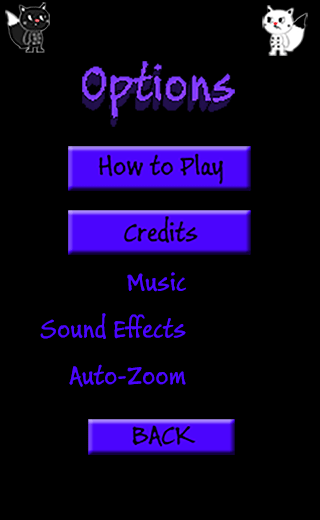
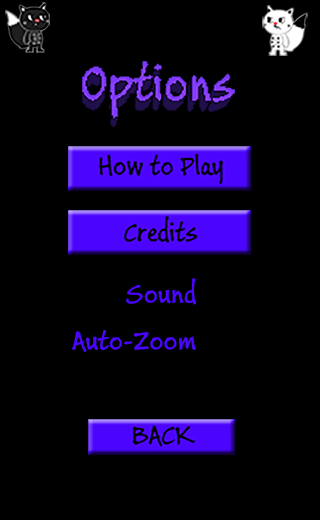
ultimateTTT

Changed region(s): [[0.125, 0.5231, 0.625, 0.6769], [0.2188, 0.7077, 0.5938, 0.7385]]

diff --git a/TicTacToe/UltimateTicTacToe/src/com/badlogic/androidgames/mrnom/OptionsScreen.java b/TicTacToe/UltimateTicTacToe/src/com/badlogic/androidgames/mrnom/OptionsScreen.java
@@ -32,30 +32,57 @@ public class OptionsScreen extends Screen
                 	if(event.y > 140 && event.y < 195)
                 	{
                 		game.setScreen(new HelpScreen(game));
-	                    //if(Settings.soundEnabled)
-	                        //Assets.click.play(1);
+	                    if(Settings.soundEnabled)
+	                    {
+	                        Assets.click.play(1);
+	                    }
 	                    return;
                 	}
                 	//credits
                 	if(event.y > 205 && event.y < 260)
                 	{
                 		game.setScreen(new CreditsScreen(game));
-	                    //if(Settings.soundEnabled)
-	                        //Assets.click.play(1);
+	                    if(Settings.soundEnabled)
+	                    {
+	                        Assets.click.play(1);
+	                    }
 	                    return;
                 	}
                 	//back
                 	if(event.y > 410 && event.y < 460)
                 	{
                 		game.setScreen(new MainMenuScreen(game));
-	                    //if(Settings.soundEnabled)
-	                        //Assets.click.play(1);
+	                    if(Settings.soundEnabled)
+	                    {
+	                        Assets.click.play(1);
+	                    }
 	                    return;
                 	}
                 }
-                //add on/off buttons here
-                //may have to change menu to say music/sfx 
-                	//cuz only have a sound enabled setting
+                //toggles 
+                if(event.x > 210 && event.x < 260)
+                {	
+                	//sound off 
+                	if(event.y > 270 && event.y < 310)
+                	{
+                		if(Settings.soundEnabled)
+                		{
+                        	Assets.click.play(1);
+                		}
+                		Settings.soundEnabled = !Settings.soundEnabled;
+                	}
+                	//sound on (default is on)
+	            	else
+	            	{
+	            		Settings.soundEnabled = true;
+	            		if(Settings.soundEnabled)
+	            		{
+                        	Assets.click.play(1);
+	            		}
+	            	}
+                }	
+            	
+                
             }
         }
     }
@@ -65,15 +92,15 @@ public class OptionsScreen extends Screen
     {
         Graphics g = game.getGraphics();      
         g.drawPixmap(Assets.options, 0, 0);
-        /*g.drawPixmap(Assets.buttons, 0, 416, 50,50, 64, 64);
         if(Settings.soundEnabled)
         {
-            g.drawPixmap(Assets.buttons, 0, 416, 0, 0, 64, 64);
+            g.drawPixmap(Assets.buttons, 207, 260, 0, 0, 64, 64);
 		}
         else
         {
-            g.drawPixmap(Assets.buttons, 0, 416, 64, 0, 64, 64);
-		}*/
+            g.drawPixmap(Assets.buttons, 207, 260, 64, 0, 64, 64);
+		}
+        g.drawPixmap(Assets.buttons, 207, 308, 64, 0, 64, 64);
     }
 
     @Override

diff --git a/TicTacToe/UltimateTicTacToe/src/com/badlogic/androidgames/mrnom/GameScreen.java b/TicTacToe/UltimateTicTacToe/src/com/badlogic/androidgames/mrnom/GameScreen.java
@@ -26,8 +26,7 @@ import com.badlogic.androidgames.framework.gl.Texture;
 import com.badlogic.androidgames.framework.impl.GLGame;
 import com.badlogic.androidgames.framework.impl.GLGraphics;
 
-
-// The view of the MVC
+//The view of the MVC
 //target space for buttons and HUD based on source x and y
 public class GameScreen extends Screen 
 {
@@ -88,8 +87,10 @@ public class GameScreen extends Screen
                 	//pause
                 	if(event.y > 440) 
                 	{
-                		//if(Settings.soundEnabled)
-                        	//Assets.click.play(1);
+                		if(Settings.soundEnabled)
+                        {
+                            Assets.click.play(1);
+                        }
                 		state = GameState.Paused;
 	                    return;
                 	}  
@@ -131,16 +132,20 @@ public class GameScreen extends Screen
                 	//resume
                     if(event.y > 215 && event.y < 280) 
                     {
-                        //if(Settings.soundEnabled)
-                            //Assets.click.play(1);
+                    	if(Settings.soundEnabled)
+                        {
+                            Assets.click.play(1);
+                        }
                 		state = GameState.Running;
                 		return;
                     } 
                     //main menu
                     if(event.y > 325 && event.y < 400) 
                     {
-                        //if(Settings.soundEnabled)
-                            //Assets.click.play(1);
+                    	if(Settings.soundEnabled)
+                        {
+                            Assets.click.play(1);
+                        }
                         game.setScreen(new MainMenuScreen(game));                        
                         return;
                     }
@@ -161,8 +166,10 @@ public class GameScreen extends Screen
                 if(event.x >= 128 && event.x <= 192 &&
                    event.y >= 200 && event.y <= 264) 
                 {
-                    //if(Settings.soundEnabled)
-                        //Assets.click.play(1);
+                	if(Settings.soundEnabled)
+                    {
+                        Assets.click.play(1);
+                    }
                     game.setScreen(new MainMenuScreen(game));
                     return;
                 }

diff --git a/TicTacToe/UltimateTicTacToe/src/com/badlogic/androidgames/mrnom/MainMenuScreen.java b/TicTacToe/UltimateTicTacToe/src/com/badlogic/androidgames/mrnom/MainMenuScreen.java
@@ -30,21 +30,29 @@ public class MainMenuScreen extends Screen
             	if(inBounds(event, 60, 225, 205, 55)) 
                 {
                     game.setScreen(new GameScreen(game));
-                    //if(Settings.soundEnabled)
-                        //Assets.click.play(1);
+                    if(Settings.soundEnabled)
+                    {
+                        Assets.click.play(1);
+                    }
                     return;
                 }
             	//options
             	if(inBounds(event, 60, 305, 205, 55)) 
                 {
                     game.setScreen(new OptionsScreen(game));
-                    //if(Settings.soundEnabled)
-                        //Assets.click.play(1);
+                    if(Settings.soundEnabled)
+                    {
+                        Assets.click.play(1);
+                    }
                     return;
                 }
             	//quit
                 if(inBounds(event, 60, 390, 205, 55)) 
                 {
+                	if(Settings.soundEnabled)
+                    {
+                        Assets.click.play(1);
+                    }
                 	System.exit(0);
                     return;
                 }

diff --git a/TicTacToe/UltimateTicTacToe/src/com/badlogic/androidgames/mrnom/CreditsScreen.java b/TicTacToe/UltimateTicTacToe/src/com/badlogic/androidgames/mrnom/CreditsScreen.java
@@ -32,8 +32,10 @@ public class CreditsScreen extends Screen
                 	if(event.y > 380 && event.y < 440)
                 	{
                 		game.setScreen(new OptionsScreen(game));
-                		//if(Settings.soundEnabled)
-                        	//Assets.click.play(1);
+                		if(Settings.soundEnabled)
+                		{
+                        	Assets.click.play(1);
+                		}
                 		return;
                 	}
                 }

diff --git a/TicTacToe/UltimateTicTacToe/src/com/badlogic/androidgames/mrnom/LoadingScreen.java b/TicTacToe/UltimateTicTacToe/src/com/badlogic/androidgames/mrnom/LoadingScreen.java
@@ -29,7 +29,7 @@ public class LoadingScreen extends Screen
         Assets.pause = g.newPixmap("PauseMenu.png", PixmapFormat.ARGB4444);
         Assets.gameOver = g.newPixmap("gameover.png", PixmapFormat.ARGB4444);
         
-        //Assets.click = game.getAudio().newSound("click.ogg");
+        Assets.click = game.getAudio().newSound("click.ogg");
         //Assets.eat = game.getAudio().newSound("eat.ogg");
         //Assets.bitten = game.getAudio().newSound("bitten.ogg");
         

diff --git a/TicTacToe/UltimateTicTacToe/src/com/badlogic/androidgames/mrnom/Assets.java b/TicTacToe/UltimateTicTacToe/src/com/badlogic/androidgames/mrnom/Assets.java
@@ -18,7 +18,7 @@ public class Assets
     public static Pixmap pause;
     public static Pixmap gameOver;
 
-    //public static Sound click;
+    public static Sound click;
     //public static Sound eat;
     //public static Sound bitten;
 }
